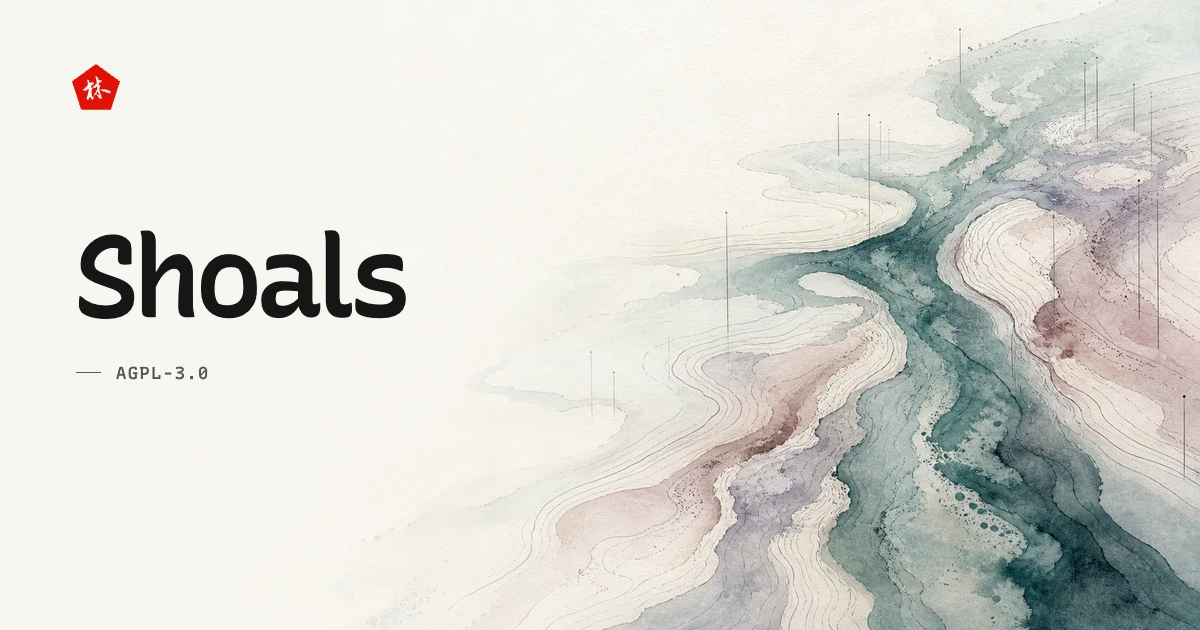
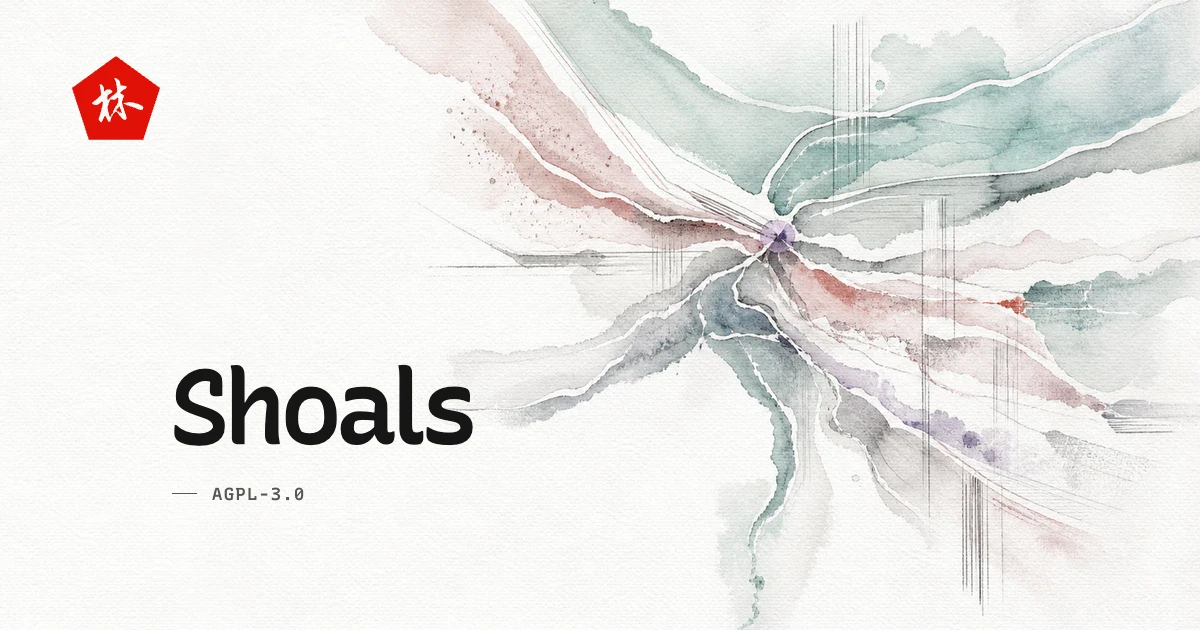
Adopt original abstract social card

diff --git a/index.html b/index.html
@@ -14,8 +14,8 @@
     <meta property="og:url" content="https://a9l.im/shoals">
     <meta property="og:site_name" content="a9l.im">
     <meta name="twitter:card" content="summary_large_image">
-    <meta property="og:image" content="https://a9l.im/shoals/og-image.webp?v=20260725b">
-    <meta name="twitter:image" content="https://a9l.im/shoals/og-image.webp?v=20260725b">
+    <meta property="og:image" content="https://a9l.im/shoals/og-image.webp?v=20260725c">
+    <meta name="twitter:image" content="https://a9l.im/shoals/og-image.webp?v=20260725c">
     <meta name="twitter:image:alt" content="Shoals — options trading and politics simulator by a9l.im">
     <meta property="og:image:width" content="1200">
     <meta property="og:image:height" content="630">
